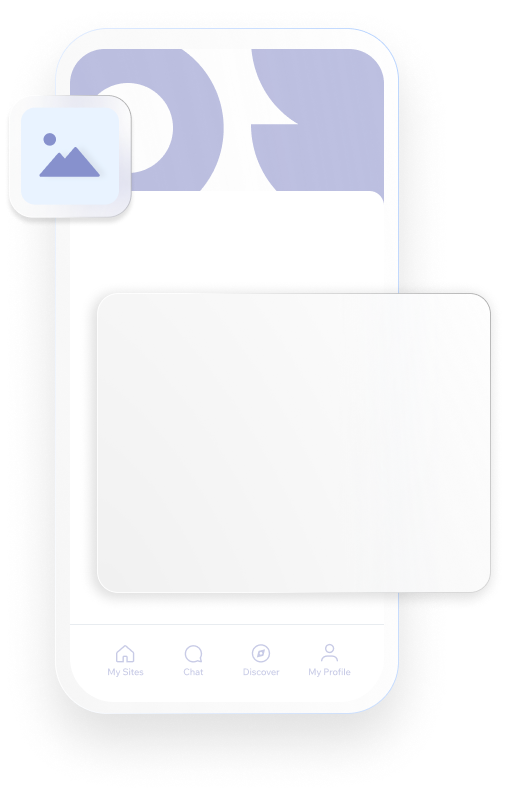
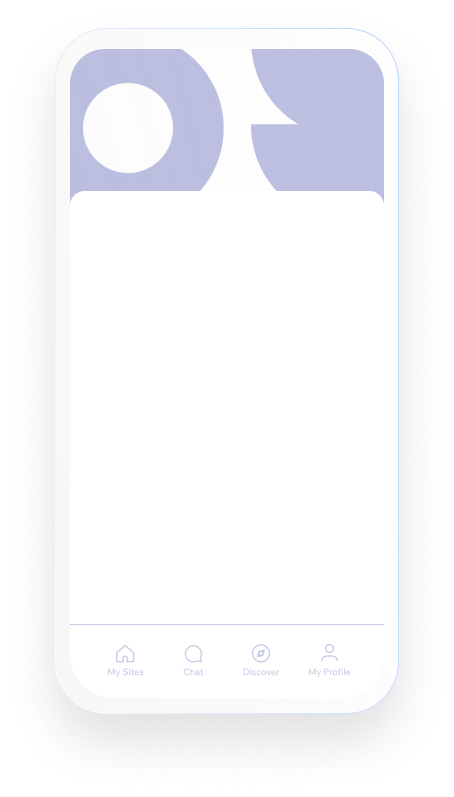
2nd level ui

diff --git a/src/DesktopLP/components/PhoneIllustration.tsx b/src/DesktopLP/components/PhoneIllustration.tsx
@@ -2,22 +2,80 @@ import React from 'react';
 import {Box, Image} from 'wix-style-react';
 import {inviteDetailsPresenter as presenter} from '../services/inviteDetailsPresenter';
 import {inviteDetails} from '../config';
+import styles from './phone-illustration.scss';
+
 
 export default class PhoneIllustration extends React.Component {
 
+  renderCoverImage = () => {
+    return (
+      <div style={{position: 'absolute', height: "100px", width: "197px", marginTop: "29px", marginLeft: presenter.getMarginLeft(inviteDetails).coverImage, opacity: 0.9}}>
+        <Image src={presenter.getCoverImage(inviteDetails)} fit="cover" borderRadius={'20px 20px 0px 0px'}/>
+      </div>
+    );
+  };
+
+  renderPlaceImageFrame = () => {
+    return (
+      <div style={{position: 'absolute', height: "80px", width: "80px", marginTop: "74px", marginLeft: presenter.getMarginLeft(inviteDetails).placeImageFrame}}>
+        <Image src={presenter.getPlaceImageFrame()} fit="cover" transparent/>
+      </div>
+    );
+  };
+
+  renderPlaceImage = () => {
+    return (
+      <div style={{position: 'absolute', height: "57px", width: "57px", marginTop: "83px", marginLeft: presenter.getMarginLeft(inviteDetails).placeImage}}>
+        <Image src={presenter.getPlaceImage(inviteDetails)} fit="cover"/>
+      </div>
+    );
+  };
+
+  renderPlaceTitle = () => {
+    return (
+      <div style={{position: 'absolute', height: "100px", width: "197px", marginTop: "155px", marginLeft: presenter.getMarginLeft(inviteDetails).placeTitle}}>
+        <strong className={styles.placeTitle}>{inviteDetails.title}</strong>
+      </div>
+    );
+  };
+
+  renderItemFrame = () => {
+    return (
+      <div style={{position: 'absolute', height: "190px", width: "260px", marginTop: "175px", marginLeft: "150px", padding: "10px", backgroundColor: "#0000"}}>
+        <Image src={presenter.getItemFrame()} transparent/>
+      </div>
+    );
+  };
+
+  renderItemImage = () => {
+    return (
+      <div style={{position: 'absolute', height: "119px", width: "215px", marginTop: "198px", marginLeft: "184px", borderRadius: "10px"}}>
+        <Image src={presenter.getItemImage(inviteDetails)} fit="cover" borderRadius={"10px"}/>
+      </div>
+    );
+  };
+
+  renderItemDetails = () => {
+    return (
+      <div style={{position: 'absolute', height: "119px", width: "215px", display: "flex", flexDirection: "column", marginTop: "328px", marginLeft: "184px", borderRadius: "10px"}}>
+        {inviteDetails.vertical !== 'stores' && <strong className={styles.itemDescription}>{inviteDetails.itemDescription}</strong>}
+        <strong className={styles.itemName}>{inviteDetails.itemName}</strong>
+        {inviteDetails.vertical === 'stores' && <strong className={styles.itemDescription}>{inviteDetails.itemDescription}</strong>}
+      </div>
+    );
+  };
+
   render = () => {
     return (
-      <Box height="70vh" width="60vh">
+      <Box height="500px" width="500px">
         <Image height="100%" width="100%" src={presenter.getPhoneIllustration(inviteDetails)} fit="contain" transparent/>
-        <div style={{position: 'absolute', height: "11vh", width: "11vh", marginTop: "9vh", marginLeft: "8vh"}}>
-          <Image src={presenter.getPlaceImageFrame(inviteDetails)} fit="contain" transparent/>
-        </div>
-        <div style={{position: 'absolute', height: "13vh", width: "28vh", marginTop: "4vh", marginLeft: "13vh", opacity: 0.7}}>
-          <Image src={inviteDetails.coverImageUrl} fit="cover" borderRadius={'20px 20px 0px 0px'}/>
-        </div>
-        <div style={{position: 'absolute', height: "8vh", width: "8vh", marginTop: "10.1vh", marginLeft: "9.5vh"}}>
-          <Image src={inviteDetails.placeImageUrl} fit="contain"/>
-        </div>
+        {inviteDetails.coverImageUrl && this.renderCoverImage()}
+        {this.renderPlaceImageFrame()}
+        {this.renderPlaceImage()}
+        {this.renderPlaceTitle()}
+        {inviteDetails.inviteLevel === "2nd" && this.renderItemFrame()}
+        {inviteDetails.inviteLevel === "2nd" && this.renderItemImage()}
+        {this.renderItemDetails()}
       </Box>
     );
   };

diff --git a/src/DesktopLP/index.tsx b/src/DesktopLP/index.tsx
@@ -20,7 +20,7 @@ export default class DesktopLP extends React.Component<{}, State> {
 
   renderInviteForm = () => {
     return (
-      <Box height="100%" width="60%" paddingTop="70px" marginLeft="140px" marginRight="60px" backgroundColor="#CCC0" direction="vertical">
+      <Box height="100%" width="60%" paddingTop="70px" marginLeft="140px" marginRight="0px" backgroundColor="#CCC0" direction="vertical">
         <Image height="15px" width="80px" src={presenter.getAppLogo(inviteDetails)} fit="cover" transparent/>
         {this.renderInviteDescription()}
         <Box direction="horizontal">
@@ -48,7 +48,7 @@ export default class DesktopLP extends React.Component<{}, State> {
 
   renderQRcode = () => {
     return (
-      <Box direction="vertical" paddingTop="50px" marginLeft="40px" backgroundColor="#0000">
+      <Box width="200px" direction="vertical" paddingTop="50px" marginLeft="40px" backgroundColor="#0000">
         <strong className={styles.qrCodeHint}>Or scan to download</strong>
         <div className={styles.qrBox} style={{backgroundImage: `url(${config.assets.QR_CODE_FRAME})`}}>
           <QRCode value="http://www.wix.com/omri.tal13" size={72}/>
@@ -88,7 +88,7 @@ export default class DesktopLP extends React.Component<{}, State> {
 
   renderPhoneIllustration = () => {
     return (
-      <Box height="100%" width="40%" marginTop="70px" backgroundColor="#FFF0">
+      <Box height="500px" width="500px" marginTop="40px" backgroundColor="#FFF0">
         <PhoneIllustration/>
       </Box>
     );
@@ -97,7 +97,7 @@ export default class DesktopLP extends React.Component<{}, State> {
   renderFooter = () => {
     return (
       <Box height="70px" width="100%" marginTop="0px" backgroundColor="#EEE2">
-        <Box height="100%" width="100%" marginLeft="140px" marginRight="140px" marginTop="18px" backgroundColor="#0000" direction="horizontal">
+        <Box height="100%" width="100%" marginLeft="140px" marginRight="140px" marginTop="20px" backgroundColor="#0000" direction="horizontal">
           <Image height="26px" width="110px" src={config.assets.LOGO_GOOGLE_PLAY} fit="cover" transparent/>
           <Image height="26px" width="95px" src={config.assets.LOGO_APPLE} fit="cover" transparent/>
           <Box height="26px" width="1px" marginLeft="30px" marginRight="30px" backgroundColor="#FFF"/>

diff --git a/src/DesktopLP/services/inviteDetailsPresenter.ts b/src/DesktopLP/services/inviteDetailsPresenter.ts
@@ -1,19 +1,54 @@
 import {InviteDetails} from "../config/types";
+import {config} from "../config";
 
 const getAppLogo = (inviteDetails: InviteDetails) => {
   return `logo_${inviteDetails.appType}.png`;
 };
 
 const getPhoneIllustration = (inviteDetails: InviteDetails) => {
-    return `phone_Illustration_${inviteDetails.inviteLevel}_${inviteDetails.appType}.png`;
+  return `phone_Illustration_${inviteDetails.inviteLevel}_${inviteDetails.appType}.png`;
 };
 
-const getPlaceImageFrame = (inviteDetails: InviteDetails) => {
-    return `place_image_frame_${inviteDetails.inviteLevel}_${inviteDetails.appType}.png`;
+const getPlaceImageFrame = () => {
+  return 'place_image_frame.png';
+};
+
+const getCoverImage = (inviteDetails: InviteDetails) => {
+  return inviteDetails.coverImageUrl;
+};
+
+const getPlaceImage = (inviteDetails: InviteDetails) => {
+  return inviteDetails.placeImageUrl ? inviteDetails.placeImageUrl : 'place_image_placeholder.png';
+};
+
+const getItemFrame = () => {
+  return 'item_image_frame.png';
+};
+
+const getItemImage = (inviteDetails: InviteDetails) => {
+  return inviteDetails.itemImageUrl ? inviteDetails.itemImageUrl : `item_image_placeholder_${inviteDetails.vertical}.png`;
+};
+
+const getMarginLeft = (inviteDetails: InviteDetails) => {
+  return {
+    // @ts-ignore
+    coverImage: config.marginLeft[`COVER_IMAGE_${inviteDetails.inviteLevel}`],
+    // @ts-ignore
+    placeImageFrame: config.marginLeft[`PLACE_IMAGE_FRAME_${inviteDetails.inviteLevel}`],
+    // @ts-ignore
+    placeImage: config.marginLeft[`PLACE_IMAGE_${inviteDetails.inviteLevel}`],
+    // @ts-ignore
+    placeTitle: config.marginLeft[`PLACE_TITLE_${inviteDetails.inviteLevel}`]
+  }
 };
 
 export const inviteDetailsPresenter = {
   getPhoneIllustration,
   getPlaceImageFrame,
+  getPlaceImage,
+  getItemFrame,
+  getItemImage,
+  getCoverImage,
+  getMarginLeft,
   getAppLogo
 };

diff --git a/src/DesktopLP/config/index.ts b/src/DesktopLP/config/index.ts
@@ -6,10 +6,16 @@ export const inviteDetails: InviteDetails = {
   subtitle: 'Secondary Line',
   description: 'Download the Spaces by Wix app and join “Kicksmini” to check out their blog on the go and stay updated with new posts.',
   placeImageUrl: 'https://wixmp-01fd07bebf1fbe0cb8eea7be.wixmp.com/pages/wix-style-react/tag.pr_9866/9dbb1640-f616-11ec-ad7f-73c92fe859f1/storybook/example.jpg',
+//  placeImageUrl: undefined,
   coverImageUrl: 'https://wixmp-01fd07bebf1fbe0cb8eea7be.wixmp.com/pages/wix-style-react/tag.pr_9866/9dbb1640-f616-11ec-ad7f-73c92fe859f1/storybook/TravelExample6.jpg',
-  inviteLevel: '1st',
-//  inviteLevel: '2nd',
-  vertical: 'stores',
+//  coverImageUrl: undefined,
+//  itemImageUrl: 'https://wixmp-01fd07bebf1fbe0cb8eea7be.wixmp.com/pages/wix-style-react/tag.pr_9866/9dbb1640-f616-11ec-ad7f-73c92fe859f1/storybook/TravelExample6.jpg',
+  itemImageUrl: undefined,
+  itemName: 'Find Your Perfect Hobby Right Away',
+  itemDescription: 'Blog Post',
+  vertical: 'blog',
+//  inviteLevel: '1st',
+  inviteLevel: '2nd',
 };
 
 export const config = {
@@ -18,5 +24,15 @@ export const config = {
     QR_CODE_FRAME: '/qr_code_frame.png',
     LOGO_APPLE: 'logo_apple.png',
     LOGO_GOOGLE_PLAY: 'logo_google_play.png'
+  },
+  marginLeft: {
+    COVER_IMAGE_1st: "130px",
+    COVER_IMAGE_2nd: "151px",
+    PLACE_IMAGE_FRAME_1st: "90px",
+    PLACE_IMAGE_FRAME_2nd: "111px",
+    PLACE_IMAGE_1st: "101px",
+    PLACE_IMAGE_2nd: "122px",
+    PLACE_TITLE_1st: "150px",
+    PLACE_TITLE_2nd: "171px"
   }
 };

diff --git a/src/DesktopLP/components/phone-illustration.scss b/src/DesktopLP/components/phone-illustration.scss
@@ -1,0 +1,38 @@
+
+@font-face {
+  font-family: WixMadeforDisplay_W_Bd;
+  src: url('../../fonts/WixMadeforDisplay_W_Bd.woff') format('woff');
+  font-weight: 100;
+}
+
+@font-face {
+  font-family: WixMadeforDisplay_W_Rg;
+  src: url('../../fonts/WixMadeforDisplay_W_Rg.woff') format('woff');
+  font-weight: 100;
+}
+
+.placeTitle {
+  font-family: WixMadeforDisplay_W_Bd, sans-serif;
+  font-style: normal;
+  font-weight: 400;
+  font-size: 15px;
+  color: #bbbbbb;
+}
+
+.itemDescription {
+  font-family: WixMadeforDisplay_W_Rg, sans-serif;
+  font-style: normal;
+  font-weight: 400;
+  font-size: 9px;
+  margin-bottom: 5px;
+  color: #999999;
+}
+
+.itemName {
+  font-family: WixMadeforDisplay_W_Rg, sans-serif;
+  font-style: normal;
+  font-weight: 200;
+  font-size: 10px;
+  margin-bottom: 5px;
+  color: #0000FF;
+}

diff --git a/src/DesktopLP/config/types.ts b/src/DesktopLP/config/types.ts
@@ -3,8 +3,11 @@ export type InviteDetails = {
   title: string,
   subtitle: string,
   description: string,
-  placeImageUrl: string,
-  coverImageUrl: string,
+  placeImageUrl: string | undefined,
+  coverImageUrl: string | undefined,
+  itemName: string | undefined,
+  itemDescription: string | undefined,
+  itemImageUrl: string | undefined,
   inviteLevel: string,
   vertical: string
 }
